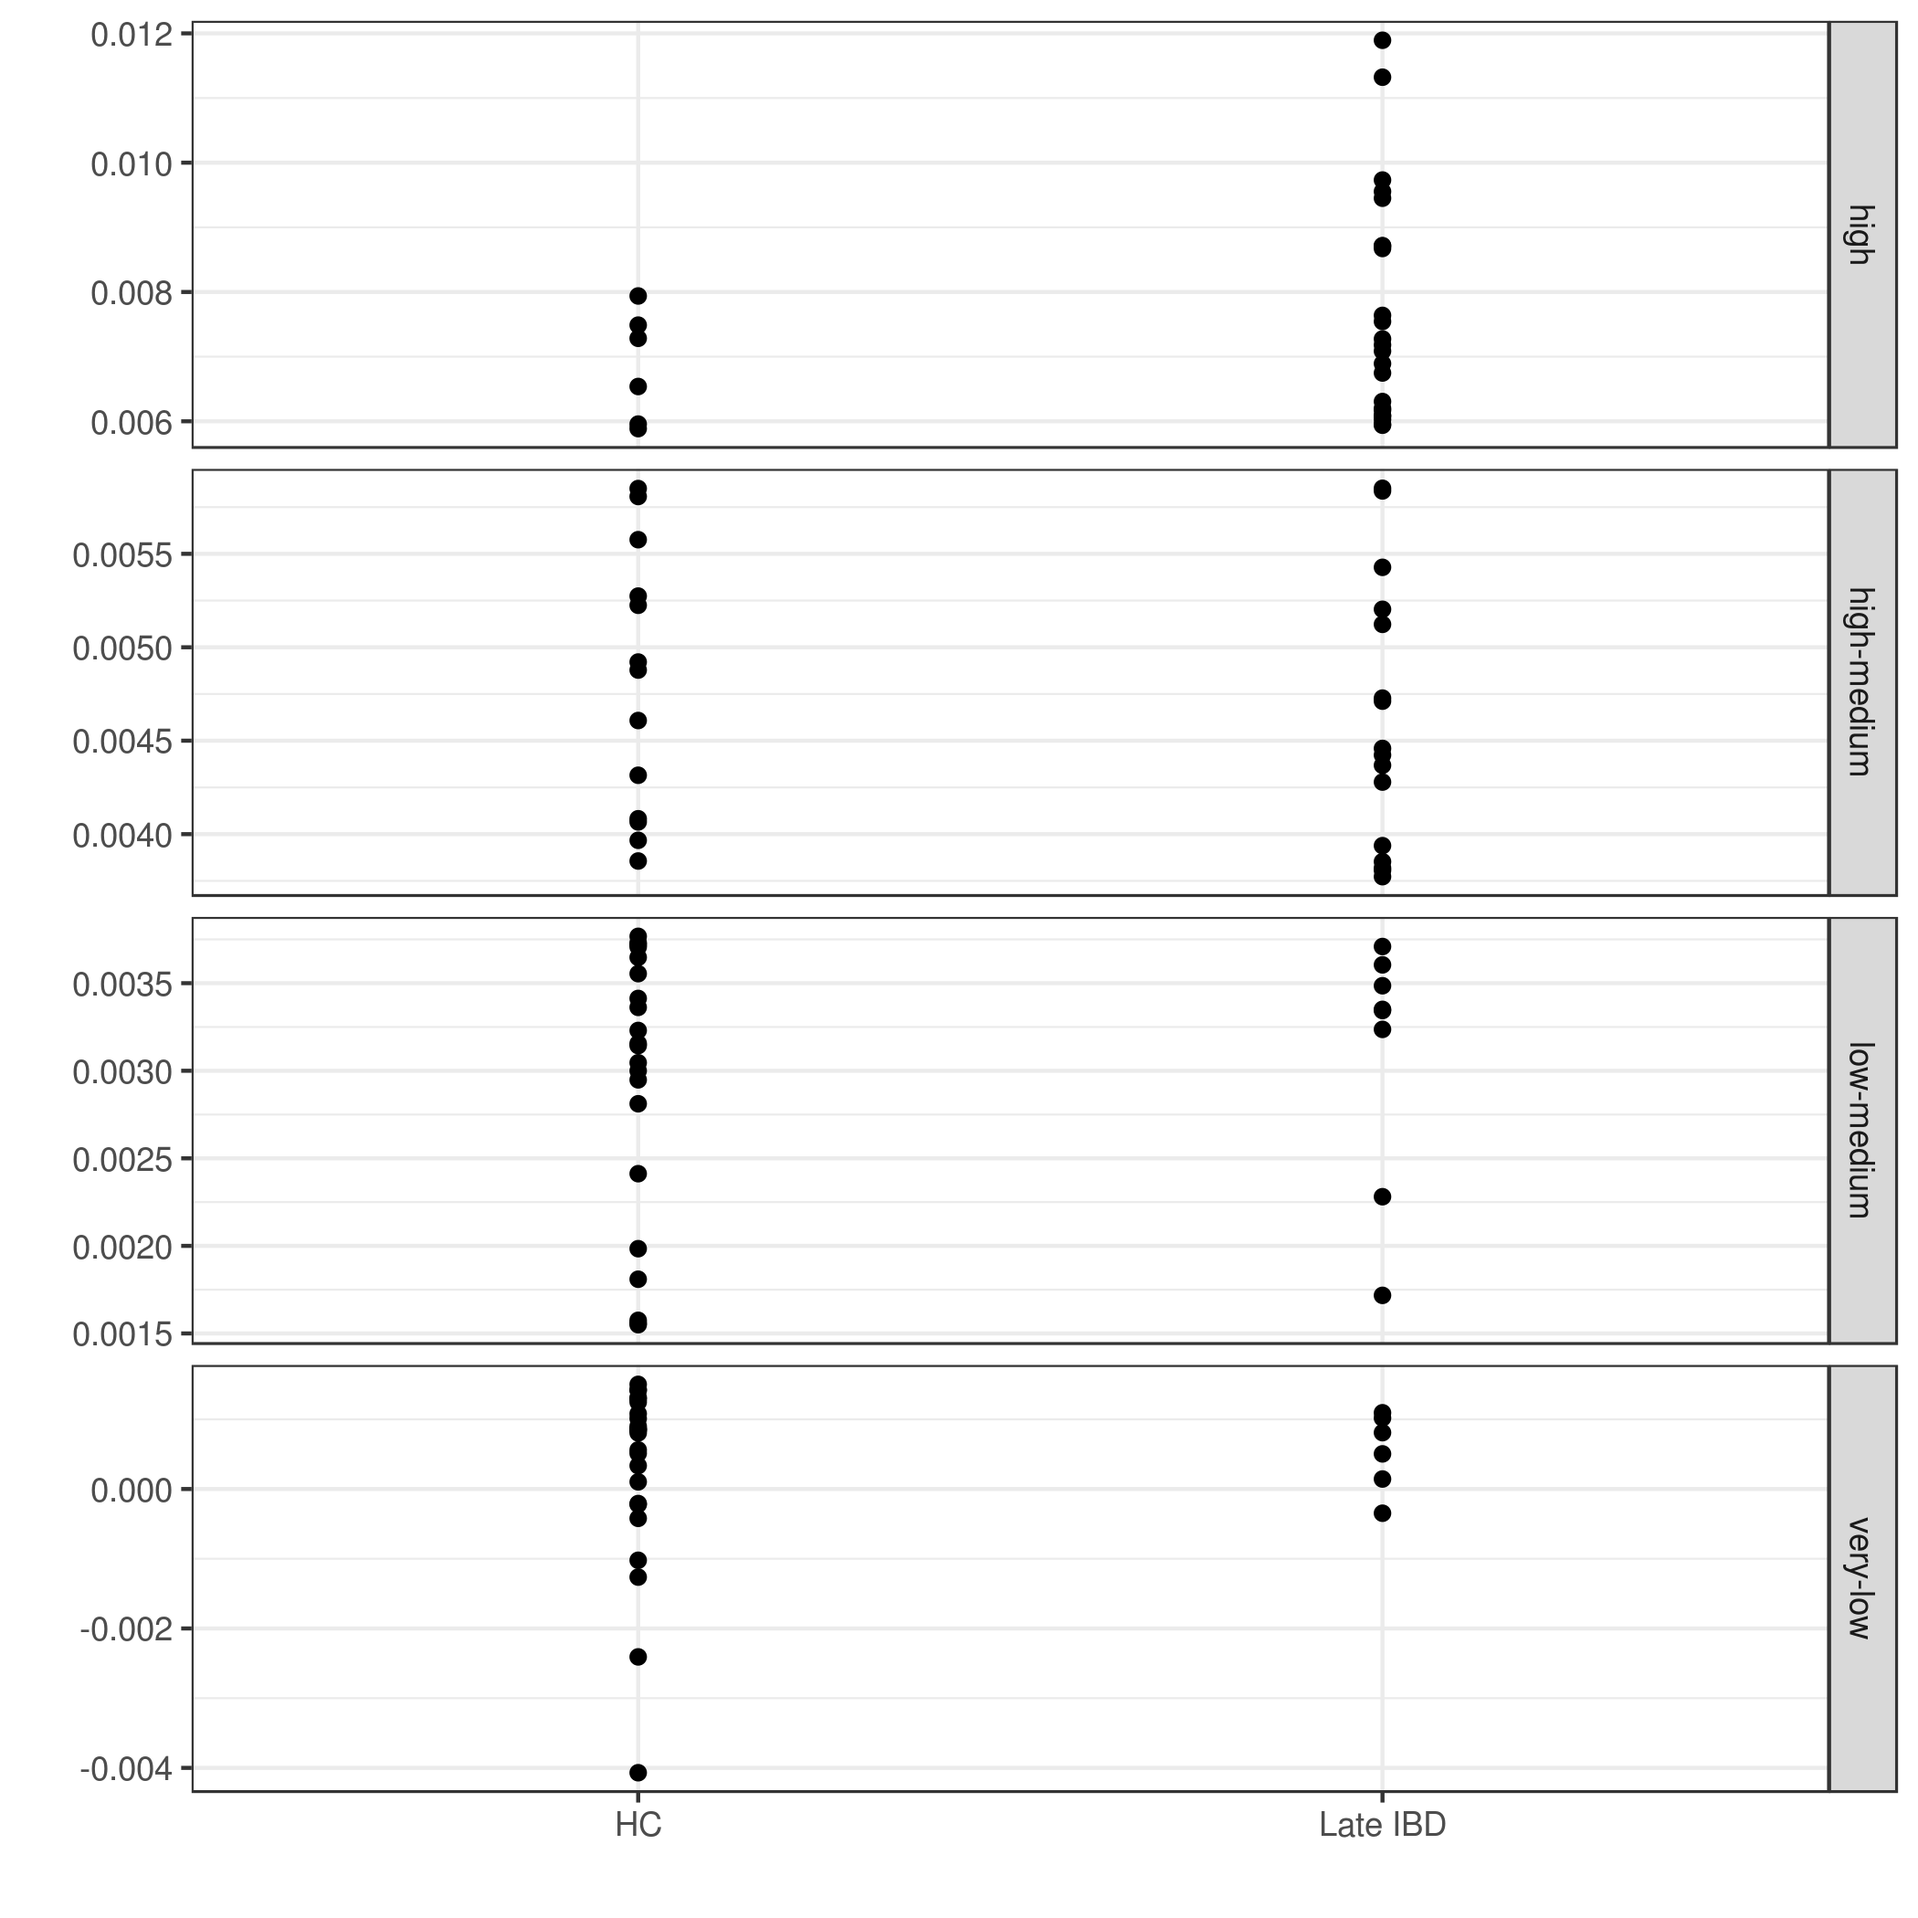
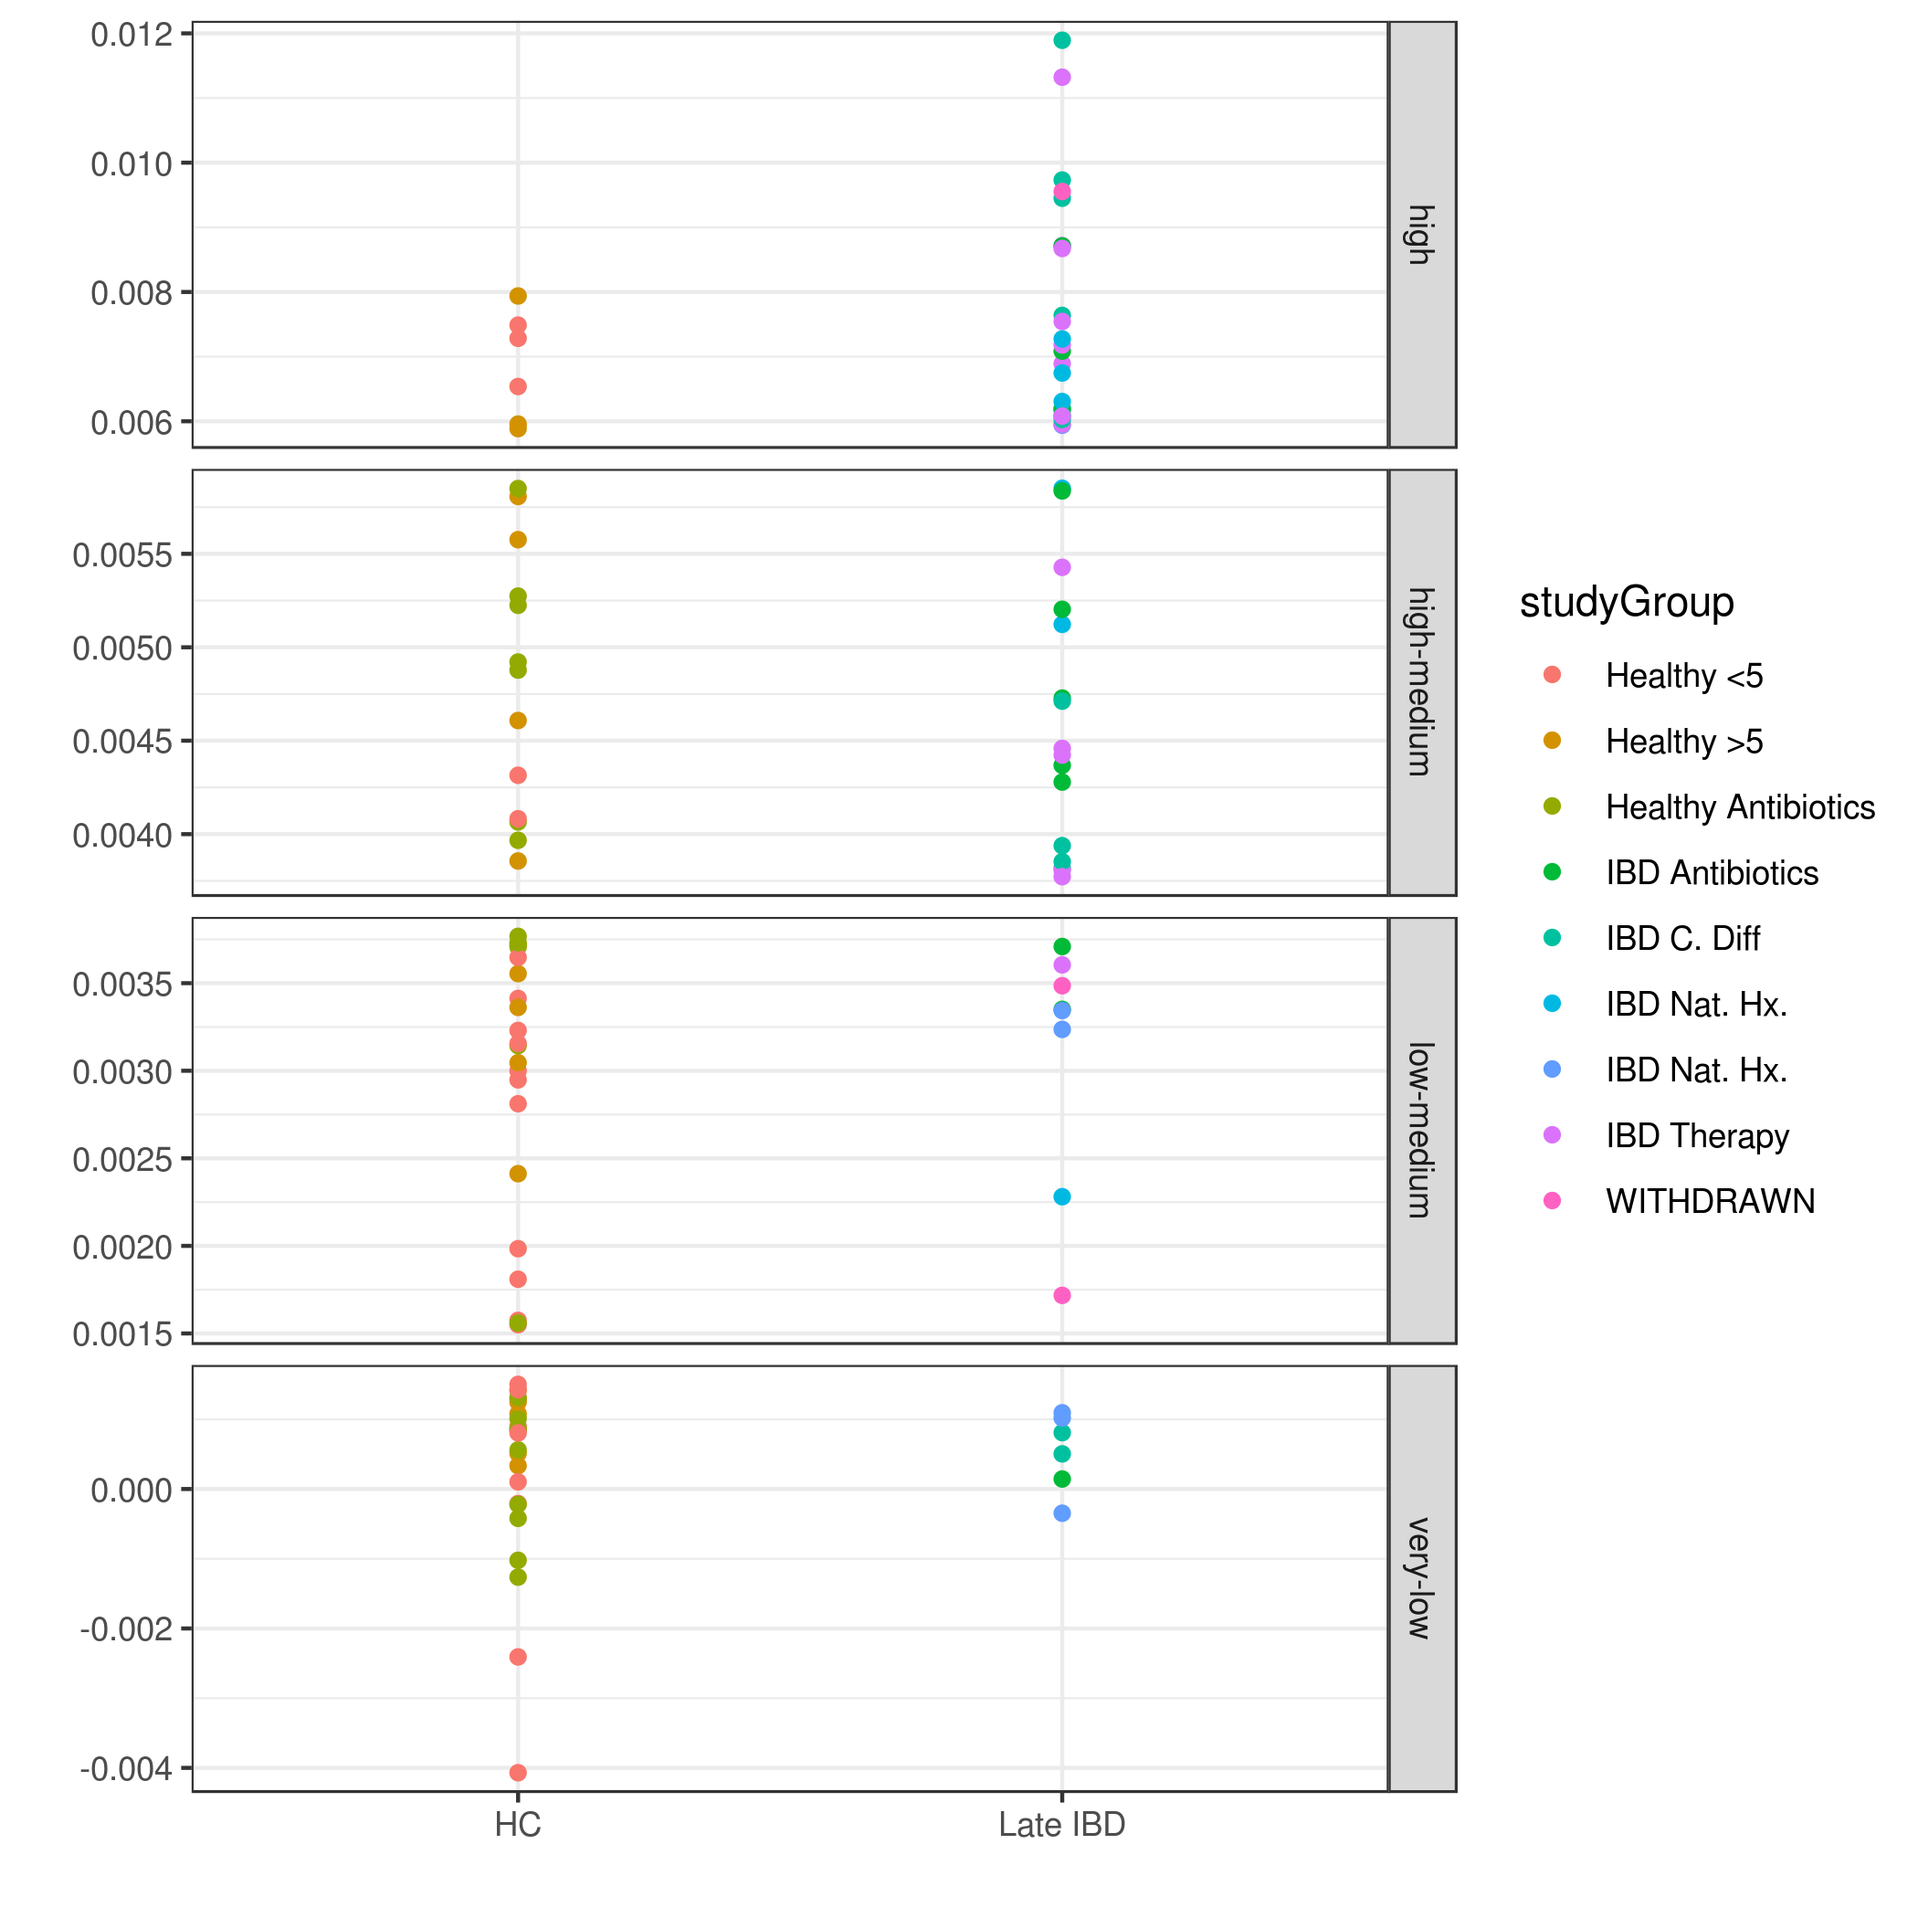
Add study group to quartile plot.

diff --git a/src/rules/sf_prs.py b/src/rules/sf_prs.py
@@ -132,7 +132,8 @@ rule prsice:
 rule annotate_prsice_scores:
     input:
         p = DATA + 'interim/prsice/{group}/{pop}.best',
-        f = DATA + 'interim/bfiles_imputed_grouped/{group}/{pop}.fam'
+        f = DATA + 'interim/bfiles_imputed_grouped/{group}/{pop}.fam',
+        m = DATA + 'processed/MANIFEST.csv'
     output:
         o = DATA + 'interim/prsice_parsed/{group}/{pop}.dat'
     run:
@@ -145,6 +146,8 @@ rule annotate_prsice_scores:
         def recode_pheno(row):
             return pheno_dict[wildcards.group][row['pheno']]
 
+        m = pd.read_csv(input.m)[['IID', 'HC or IBD or ONC', 'Study Group']].rename(columns={'Study Group':'studyGroup'})
+        m.loc[:, 'IID'] = m.apply(lambda row: '0_' + row['IID'], axis=1)
         cols= ['fid', 'IID', 'f', 'm', 'sex', 'pheno']
         int_cols= ['fid', 'f', 'm', 'sex', 'pheno']
         dtype={'fid':int, 'f':int, 'm':int, 'sex':int, 'pheno':int}
@@ -154,7 +157,7 @@ rule annotate_prsice_scores:
         quantile_labels = pd.qcut(df['PRS'], 4, labels=["very-low", "low-medium", "high-medium", "high"])
         df.loc[:, 'quantile'] = quantile_labels
         df.loc[:, 'pheno'] = df.apply(recode_pheno, axis=1)
-        df.to_csv(output.o, index=False, sep='\t')
+        pd.merge(df, m, on='IID', how='left').to_csv(output.o, index=False, sep='\t')
 
 rule plot_prs_quantiles:
     input:
@@ -165,7 +168,7 @@ rule plot_prs_quantiles:
         R("""
         require(ggplot2)
         d = read.delim("{input}", header=TRUE, sep='\t')
-        p = ggplot(data=d, aes(y=PRS, x=factor(pheno), group=pheno)) + geom_point() +
+        p = ggplot(data=d, aes(y=PRS, x=factor(pheno), group=pheno, colour=studyGroup)) + geom_point() +
         theme_bw() + facet_grid(quantile~., scale="free_y") + ylab('') + xlab('')
         ggsave("{output}", p)
         """)

diff --git a/src/rules/sf_snptest.py b/src/rules/sf_snptest.py
@@ -139,5 +139,11 @@ rule snptest_collapse:
     output:
         o = DATA + 'interim/{pop}_snptest_final/snptest.out'
     run:
-        dfs = [pd.read_csv(_, comment='#', sep=' ') for _ in input]
+        def read_csv(afile):
+            chrom = afile.split('/')[-1].split('.')[3:]
+            df = pd.read_csv(_, comment='#', sep=' ')
+            df.loc[:, 'chromosome'] = chrom
+            return df
+
+        dfs = [read_csv(_) for _ in input]
         pd.concat(dfs).to_csv(output.o, index=False, sep='\t')
